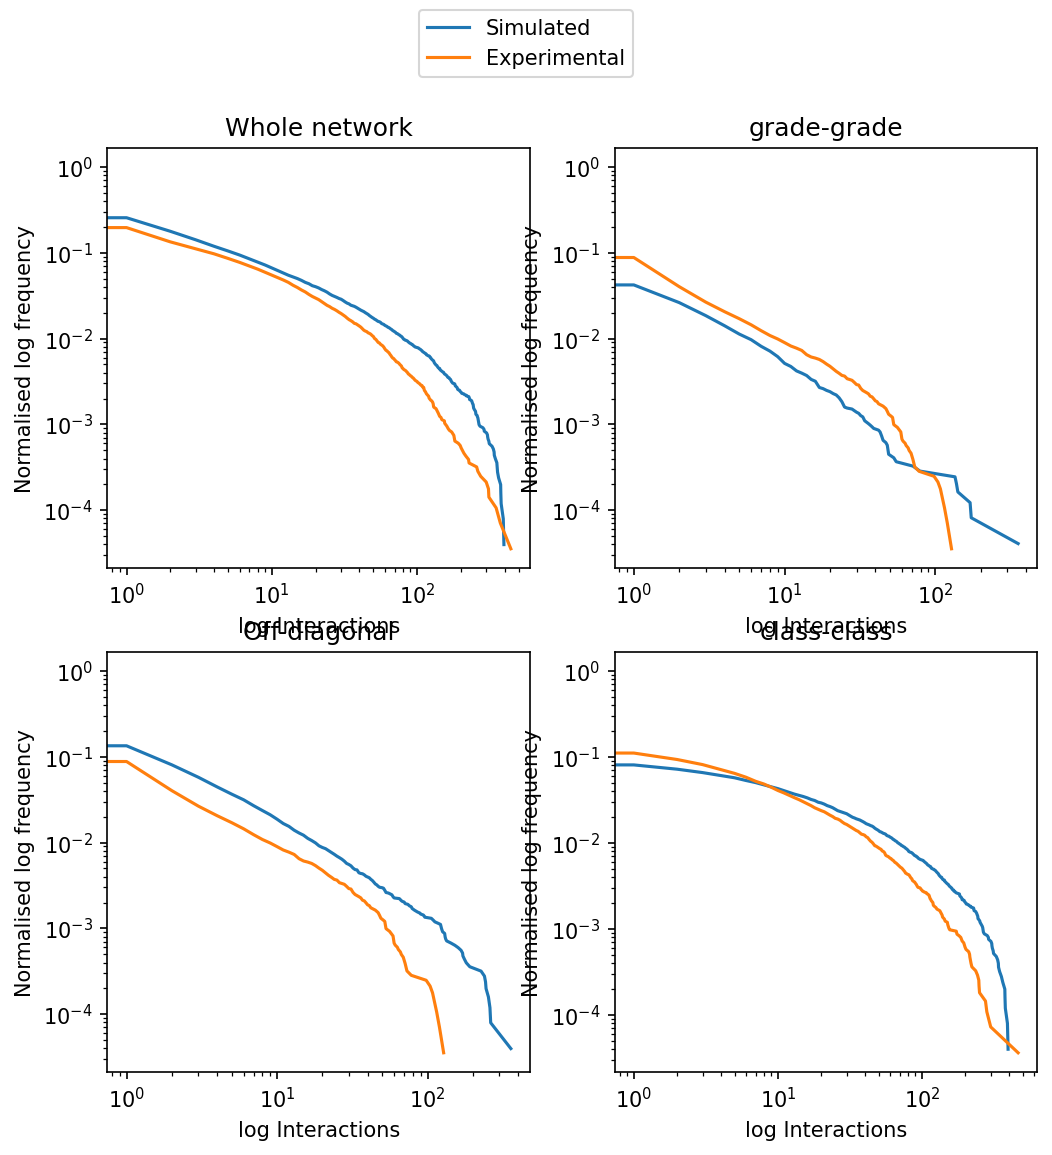
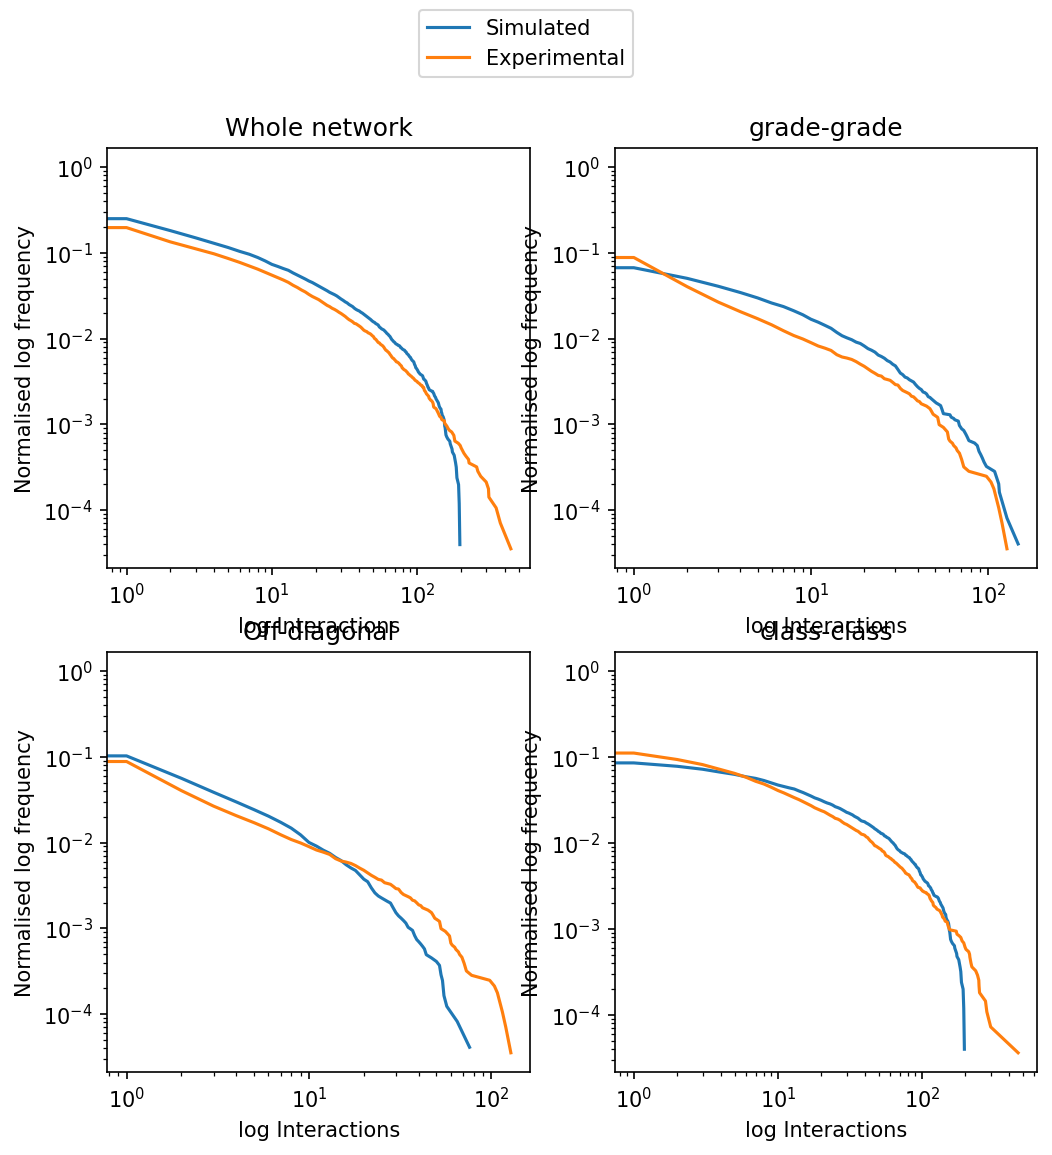
Interaction try-out

diff --git a/network.py b/network.py
@@ -1,11 +1,13 @@
 # from copyreg import pickle
 import random
 import math
+from black import diff
 import numpy as np
 import networkx as nx
 import pickle
 import sys
-from scipy.optimize import least_squares
+from scipy.optimize import least_squares, dual_annealing, leastsq
+from scipy.optimize import minimize
 from analysis import Analysis
 
 sys.setrecursionlimit(10000)
@@ -16,7 +18,7 @@ class Network:
     def __init__(self, num_students, num_grades, num_classes, class_threshhold=20, parameterList=[]):
         self.parameterList = parameterList
         self.students = self.generate_students(num_students, num_grades, num_classes, class_treshold=class_threshhold)
-        self.d = (1) * pow(10, -4.3)  # 5.1
+        self.d = (1) * pow(10, -2)  # 4.3
         self.graph = self.generate_network()
         self.daily_list = []
 
@@ -88,8 +90,9 @@ class Network:
                 # print(int(np.random.poisson(stud.p_vector[pers]*self.d)))
                 weight = 1
 
-                tentative_weight = int(np.random.poisson(stud.p_vector[pers] * self.d))
-                if tentative_weight < 400:
+                tentative_weight = int(np.random.poisson(stud.p_vector[pers] * self.d))  # random.poisson
+
+                if tentative_weight < 200:
                     weight = tentative_weight
                 if weight:
                     interaction = stud.get_interaction(pers)
@@ -106,27 +109,7 @@ class Network:
             hourly_list.append(self.generate_network())
 
         dayGraph = nx.empty_graph(hourly_list[0])
-        # dayGraph.add_edges_from(hourly_list[0].edges(data=True)+hourly_list[1].edges(data=True))
 
-        # edges = []
-        # for i in range(len(self.students)):
-        #     first_id = self.students[i]
-        #     for j in range(i+1, len(self.students)):
-        #         second_id = self.students[j]
-        #         count = 0
-        #         for graph in hourly_list:
-        #             data = graph.get_edge_data(first_id, second_id)
-        #             if data is not None:
-        #                 count += data['count']
-
-        #         edges.append((first_id, second_id, {'count': count}))
-
-        # edges = []
-        # for stud in self.students:
-        #     for stud2, interaction in stud.interactions.items():
-        #         edges.append((stud, stud2, {'count': interaction.count}))
-
-        # dayGraph.add_edges_from(edges)
         dayGraph = hourly_list[-1]
         k = 0.5
 
@@ -147,7 +130,7 @@ class Network:
     def generateXdays(self, numDays):
         for i in range(numDays):
             self.daily_list.append(self.generate_a_day())
-            # print(students[0].biasVector)
+
             print("-----Day" + str(i) + "------")
             print("max: " + str(max(list(self.students[0].bias_vector.values()))))
             print("mean: " + str(np.mean(list(self.students[0].bias_vector.values()))))
@@ -163,16 +146,15 @@ class Network:
 
     def parameterEstimation(self):
 
-        X0 = [1, 0.5, 110, 0.8, 4, 0.5, 25000, 0.1]
+        # X0 = [20, 1, 40, 1, 60, 1, 80, 1]
+        # X0 = [4.0115483, 0.05900369, 0.10502307, 0.74691569]
+        X0 = [10, 10, 10, 10]
+        # bounds = ([0 for i in range(4)], [np.inf for i in range(4)])
+        bounds = [(1e-15, 10000), (1e-15, 10000), (1e-15, 10000), (1e-15, 10000)]
 
-        bounds = (
-            [0 for i in range(8)],
-            [np.inf, np.inf, np.inf, np.inf, np.inf, np.inf, np.inf, np.inf],
-        )
-
-        experimentalDataDict = self.pickleLoad("graph1_whole_pixel.pkl")
-        exp_class_class = self.pickleLoad("graph1_class_pixel.pkl")
-        exp_grade_grade = self.pickleLoad("graph1_grade_pixel.pkl")
+        # experimentalDataDict = self.pickleLoad("graph1_whole_pixel.pkl")
+        # exp_class_class = self.pickleLoad("graph1_class_pixel.pkl")
+        # exp_grade_grade = self.pickleLoad("graph1_grade_pixel.pkl")
         exp_offDiag = self.pickleLoad("graph1_off_diag.pkl")
 
         def createSubGraphWithoutGraph(graph, diagonal, gradeInteraction):
@@ -257,47 +239,49 @@ class Network:
 
         def objectiveFunc(X):
             ## Off-diagonal excluding lunch
-            a1 = X[0]
-            b1 = X[1]
+            # a1 = X[0]
+            # b1 = X[1]
 
             ## Off-diagonal with lunch
-            a2 = X[2]
-            b2 = X[3]
+            # a2 = X[2]
+            # b2 = X[3]
 
             ## Grade-Grade
-            a3 = X[4]
-            b3 = X[5]
+            # a3 = X[4]
+            # b3 = X[5]
 
             ## Class-Class
-            a4 = X[6]
-            b4 = X[7]
+            # a4 = X[6]
+            # b4 = X[7]
 
             # graph = self.generate_a_day(param=True)
             # graph = self.daily_list[-1]
             graph = Network(225, 5, 2, parameterList=X).generate_a_day()
 
             off_diagonal = createSubGraphWithout(graph, True, False)
-            grade_grade = createSubGraphWithoutGraph(graph, False, True)
-            class_class = createSubGraphWithoutGraph(graph, True, False)
+            # grade_grade = createSubGraphWithoutGraph(graph, False, True)
+            # class_class = createSubGraphWithoutGraph(graph, True, False)
 
-            exp, sim = toArray(graph, experimentalDataDict)
-            sim_diag, exp_diag = toArray(off_diagonal, exp_offDiag)
-            sim_grade, exp_grade = toArray(grade_grade, exp_grade_grade)
-            sim_class, exp_class = toArray(class_class, exp_class_class)
+            # exp, sim = toArray(graph, experimentalDataDict)
+            exp_diag, sim_diag = toArray(off_diagonal, exp_offDiag)
+            # sim_grade, exp_grade = toArray(grade_grade, exp_grade_grade)
+            # sim_class, exp_class = toArray(class_class, exp_class_class)
 
-            print("med sær ting" + str(exp[:, 1][:85]))
-            print("uten sær ting" + str(exp[:, 1][85]))
+            # diff_whole = exp[:, 1][:20] - sim[:, 1][:20]  # 85
 
-            diff_whole = exp[:, 1][:85] - sim[:, 1][:85]  # Hva betyr dette???
-            diff_diag = exp_diag[:, 1][25] - sim_diag[:, 1][25]
-            diff_grade = exp_grade[:, 1][20] - sim_grade[:, 1][20]
-            diff_class = exp_class[:, 1][50] - sim_class[:, 1][50]
+            diff_diag = exp_diag[:, 1] - sim_diag[:, 1]  # 25
+            # diff_grade = exp_grade[:, 1][:20] - sim_grade[:, 1][:20]  # 20
+            # diff_class = exp_class[:, 1][:20] - sim_class[:, 1][:20]  # 50
+            print(diff_diag)
 
-            res = diff_whole + diff_diag + diff_grade + diff_class
-            print(res)
-            return res
+            return diff_diag
+            # res = (np.abs(diff_diag)).sum()  # diff_whole + diff_diag + diff_grade + diff_class
+            # print(res)
+            # return res
 
-        result = least_squares(objectiveFunc, X0, method="trf", bounds=bounds, ftol=1e-10, xtol=1e-16)  # loss="cauchy"
+        result = least_squares(
+            objectiveFunc, X0, method="trf", loss="cauchy", bounds=bounds, ftol=1e-10, xtol=1e-15
+        )  # loss="cauchy"
         print(result)
 
 

diff --git a/person.py b/person.py
@@ -97,7 +97,7 @@ class Person:
             self.bias_vector[students[i]] = self.const_bias
 
     def generate_p_vector(self, students, X):
-        rand = False
+        rand = True
         if len(X):
             rand = True
             ## Off-diagonal excluding lunch
@@ -109,44 +109,51 @@ class Person:
             b2 = X[3]
 
             ## Grade-Grade
-            a3 = X[4]
-            b3 = X[5]
+            a3 = 40  # X[4]
+            b3 = 0.1  # X[5]
 
             ## Class-Class
-            a4 = X[6]
-            b4 = X[7]
+            a4 = 200  # X[6]
+            b4 = 0.1  # X[7]
         else:
             ## Off-diagonal excluding lunch
-            a2 = 110
-            b2 = 0.8
-
-            ## Off-diagonal with lunch
-            a3 = 4
-            b3 = 0.5
+            a1 = 4  # 3.5
+            b1 = 0.06
+            ##  Off-diagonal with lunch
+            a2 = 0.1
+            b2 = 0.75
 
             ## Grade-Grade
-            a4 = 25000
-            b4 = 0.1
+            a3 = 5.4
+            b3 = 0.8
 
             ## Class-Class
-            a1 = 1
-            b1 = 0.5
+            a4 = 10
+            b4 = 100000
 
         for i in range(len(students)):
 
-            p = a1 * (1 / pow(0.1 if not rand else random.random(), b1)) - 1  # 0.5
-
+            # p = a1 * (1 / pow(0.001 if not rand else random.random(), b1) - 1.5)  # - 1  # 0.5
+            p = a1 * np.random.power(b1)
             if self.lunch_group == students[i].lunch_group:
-                p += a2 * (1 / pow(0.1 if not rand else random.random(), b2) - 1)
+                # p += a2 * (1 / pow(0.001 if not rand else random.random(), b2) - 1)
+                p += a2 * np.random.power(b2)
             if self.grade == students[i].grade:
-
-                p += a3 * (1 / pow(0.1 if not rand else random.random(), b3) - 1)
+                # p += a3 * (1 / pow(0.001 if not rand else random.random(), b3) - 1)
+                p += a3 * np.random.power(b3)
 
             if self.class_group == students[i].class_group and self.grade == students[i].grade:
+                p += a4 * np.random.power(b4)
 
-                p += (a4) * (1 / pow(0.1 if not rand else random.random(), b4) - 1)
+                # p += (a4) * (1 / pow(0.001 if not rand else random.random(), b4) - 1)
+
+            if p == 0:
+                print("-----NULL----")
 
             self.p_vector[students[i]] = p * self.bias_vector[students[i]] * students[i].bias_vector[self]
+
+    def get_min_p_vector(self):
+        return min(self.p_vector, key=self.p_vector.get)
 
     def renormalize(self):
 

diff --git a/analysis.py b/analysis.py
@@ -15,26 +15,7 @@ class Analysis:
 
     def createSubGraphWithout(self, graph, grade, klasse):
 
-        # grades = nx.get_node_attributes(graph, 'klasse')
-
         G = nx.Graph()
-
-        # nodes = set()
-        # edges = []
-        # for node, klasseAttr in grades.items():
-        #     print(node)
-        #     print(klasseAttr)
-        #     for n in graph.neighbors(node):
-        #         if grade and (not klasse):
-        #             if grades[n][0] != grades[node][0]:
-        #                 G.add_edge(node, n, weight=graph[node][n]['count'])
-        #                 G.add_node(n, klasse=graph.nodes[n]['klasse'])
-        #         elif not grade:
-        #             if grades[n] != grades[node]:
-        #                 G.add_edge(node, n, weight=graph[node][n]['count'])
-        #                 G.add_node(n, klasse=graph.nodes[n]['klasse'])
-        # self.heatmap(G)
-        # return G
 
         for node in graph:
             for n in graph.neighbors(node):
@@ -47,9 +28,7 @@ class Analysis:
         # self.heatmap(G)
         return G
 
-    def createSubGraphWithoutGraph(
-        self, graph, diagonal, gradeInteraction
-    ):  # objektene er ikke konservert med sine atributter
+    def createSubGraphWithoutGraph(self, graph, diagonal, gradeInteraction):
 
         G = nx.Graph()
 
@@ -70,7 +49,7 @@ class Analysis:
     def pixelDist(self, graph, logX, logY, axis=None, old=False):
         if not old:
             A = self.heatmap(graph, output=True)
-            # print(A[np.triu_indices(236, k = 1)])
+
             length = len(graph.nodes())
 
             weights = A[np.triu_indices(length, k=1)].tolist()[0]
@@ -82,8 +61,6 @@ class Analysis:
 
         if old:
             d = graph
-
-        # print(float(sum(sorteddata))/float(len(sorteddata)))
 
         if axis:
             if old:
@@ -118,8 +95,6 @@ class Analysis:
                 plt.xscale("linear")
                 plt.xlabel("Interactions")
             plt.show()
-
-        # print(np.triu(A.todense(), k=1)) #
 
     def pickleLoad(self, name):
         file_to_read = open(name, "rb")

diff --git a/main.py b/main.py
@@ -18,16 +18,7 @@ def main():
             225,
             5,
             2,
-            parameterList=[
-                1.00000003e00,
-                5.00000065e-01,
-                1.10000000e02,
-                8.00000007e-01,
-                4.00000004e00,
-                4.99999944e-01,
-                2.49999998e04,
-                9.99999633e-02,
-            ],
+            # parameterList=[1.00000026e00, 4.99999984e-01,1.10000005e02,7.99999986e-01,3.99999977e00,5.00000014e-01,2.50000008e04,9.99996649e-02]
         )
         # network.generateXdays(8)
 
@@ -35,7 +26,8 @@ def main():
     # analysis.heatmap(network.generate_a_day())
     # analysis.histDistributionLog(network.generateXdays(8))
     # G = analysis.createSubGraphWithoutGraph(network.generateXdays(8), False, True)
-    G = network.generateXdays(20)
+    G = network.generateXdays(10)
+
     # G = network.generate_a_day()
     analysis.pixel_dist_school(G, old=True)
     analysis.heatmap(G)
